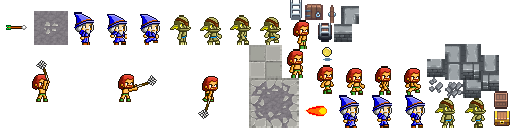
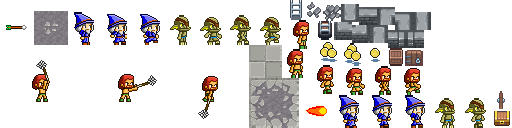
Chests can now drop gold

Changed region(s): [[0.5938, 0.0312, 1.0, 0.875]]

diff --git a/core/src/com/mygdx/game/Room.java b/core/src/com/mygdx/game/Room.java
@@ -89,6 +89,7 @@ public class Room
 	
 	//removal arrays
 	public Array<GoldCoin> coinsToBeRemoved;
+	public Array<Chest> chestsToBeRemoved;
 	public Array<Attack> attacksToBeRemoved;
 	public Array<Enemy> enemiesToBeRemoved;
 	public Array<AttackEnemy> enemyAttacksToBeRemoved;
@@ -120,6 +121,7 @@ public class Room
 		
 		//removal arrays
 		coinsToBeRemoved = new Array<GoldCoin>();
+		chestsToBeRemoved = new Array<Chest>();
 		attacksToBeRemoved = new Array<Attack>();
 		enemiesToBeRemoved = new Array<Enemy>();
 		enemyAttacksToBeRemoved = new Array<AttackEnemy>();
@@ -392,7 +394,7 @@ public class Room
 				//chest object
 				else if(BLOCK_TYPE.CHEST.sameColor(currentPixel))
 				{
-					obj = new Chest(Assets.instance.chest.chest);
+					obj = new Chest(Assets.instance.chest.chest, this, worldController);
 					obj.body.setTransform(pixelX + roomOffsetX, -pixelY + roomOffsetY, 0);
 					chests.add((Chest)obj);
 					
@@ -577,6 +579,15 @@ public class Room
 			coinsToBeRemoved.removeValue(grabbedCoin, false);
 		}
 		
+		for(Chest openedChest: chestsToBeRemoved)
+		{
+			for(Chest chest : chests)
+			{
+				if(chest == openedChest)
+					chests.removeValue(openedChest, false);
+			}
+		}
+		
 		for(Attack attackHit : attacksToBeRemoved)
 		{
 			for(Attack attack : attacks)
@@ -614,6 +625,11 @@ public class Room
 		coinsToBeRemoved.add(grabbedCoin);
 	}
 	
+	public void removeChest(Chest openedChest)
+	{
+		chestsToBeRemoved.add(openedChest);
+	}
+	
 	public void removeAttack(Attack attackHit)
 	{
 		attacksToBeRemoved.add(attackHit);
@@ -646,5 +662,10 @@ public class Room
 	public void removeEnemyAttack(AttackEnemy attackEnemy)
 	{
 		enemyAttacksToBeRemoved.add(attackEnemy);
+	}
+
+	public void addGold(GoldCoin gold) 
+	{
+		coins.add(gold);
 	}
 }

diff --git a/core/src/com/mygdx/game/WorldController.java b/core/src/com/mygdx/game/WorldController.java
@@ -67,6 +67,7 @@ public class WorldController extends InputAdapter implements ContactListener
 		rooms = new Room[Constants.MAXROOMS][Constants.MAXROOMS];
 		bodiesToBeRemoved = new Array<Body>();
 		score = 0;
+		goldModifier = 1;
 		prepRoomFiles();
 		
 		initLevel();
@@ -299,14 +300,14 @@ public class WorldController extends InputAdapter implements ContactListener
 	public void beginContact(Contact contact)
 	{
 		//collisions for gold coin, non-button activated
-		if(contact.getFixtureA().getBody().getUserData() == activeRoom.player && contact.getFixtureB().getBody().getUserData().getClass() == GoldCoin.class && contact.getFixtureB().isSensor())
+		if(contact.getFixtureA().getBody().getUserData() == activeRoom.player && contact.getFixtureB().getBody().getUserData().getClass().isAssignableFrom(GoldCluster.class) && contact.getFixtureB().isSensor()) //TODO needs refactoring
 		{
 			touchedObject = (AbstractGameObject) contact.getFixtureB().getBody().getUserData();
 			touchedObject.activate();
 			touchedObject = null;
 			
 		}
-		else if(contact.getFixtureB().getBody().getUserData() == activeRoom.player && contact.getFixtureA().getBody().getUserData().getClass() == GoldCoin.class && contact.getFixtureB().isSensor())
+		else if(contact.getFixtureB().getBody().getUserData() == activeRoom.player && contact.getFixtureA().getBody().getUserData().getClass().isAssignableFrom(GoldCluster.class) && contact.getFixtureB().isSensor())
 		{
 			touchedObject = (AbstractGameObject) contact.getFixtureB().getBody().getUserData();
 			touchedObject.activate();

diff --git a/core/src/com/mygdx/game/objects/GoldCluster.java b/core/src/com/mygdx/game/objects/GoldCluster.java
@@ -9,14 +9,13 @@ import com.mygdx.game.WorldController;
 import com.mygdx.game.utils.AudioManager;
 import com.mygdx.game.utils.Constants;
 
-public class GoldCluster extends AbstractGameObject
+public class GoldCluster extends GoldCoin
 {
-	private Room room;
-	private WorldController worldController;
-
-	public GoldCluster(TextureRegion img, Room room, WorldController wc)
+	private int numOfCoins;
+	
+	public GoldCluster(TextureRegion img, Room room, WorldController wc, int numOfCoins)
 	{
-		super(img);
+		super(img, room, wc);
 		
 		body.destroyFixture(body.getFixtureList().first());
 		
@@ -35,15 +34,21 @@ public class GoldCluster extends AbstractGameObject
 		
 		this.room = room;
 		this.worldController = wc;
+		this.numOfCoins = numOfCoins;
 	}
 
 	@Override
 	public void activate()
 	{	
-		AudioManager.instance.play(Assets.instance.sounds.coinPickup);
-		worldController.addScore(Constants.BASECOINSCORE + worldController.goldModifier);
-		room.removeCoin(this);
-		worldController.addToRemoval(body);
-		System.out.println("Gold Coin touched, +10 gold. Score: " + worldController.getScore());
+		if(!collected)
+		{
+			AudioManager.instance.play(Assets.instance.sounds.coinPickup);
+			worldController.addScore((Constants.BASECOINSCORE * numOfCoins) * worldController.goldModifier);
+			room.removeCoin(this);
+			worldController.addToRemoval(body);
+			System.out.println("Gold Coin touched, +10 gold. Score: " + worldController.getScore());
+			
+			collected = true;
+		}
 	}
 }

diff --git a/core/src/com/mygdx/game/objects/Chest.java b/core/src/com/mygdx/game/objects/Chest.java
@@ -8,13 +8,17 @@ import com.badlogic.gdx.graphics.g2d.TextureRegion;
 import com.badlogic.gdx.physics.box2d.CircleShape;
 import com.badlogic.gdx.physics.box2d.FixtureDef;
 import com.mygdx.game.Assets;
+import com.mygdx.game.Room;
+import com.mygdx.game.WorldController;
 import com.mygdx.game.utils.AudioManager;
 import com.mygdx.game.utils.Constants;
 
 public class Chest extends AbstractGameObject
 {
-
-	public Chest(TextureRegion img)
+	private Room room;
+	private WorldController worldController;
+	
+	public Chest(TextureRegion img, Room room, WorldController wc)
 	{
 		super(img);
 		
@@ -30,14 +34,27 @@ public class Chest extends AbstractGameObject
 		body.setUserData(this);
 		
 		circle.dispose();
+		
+		this.room = room;
+		this.worldController = wc;
 	}
 	
 	@Override
 	public void activate()
 	{
+		//Play sound clip
 		AudioManager.instance.play(Assets.instance.sounds.openChest);
 		
-		System.out.println("Chest touched");
+		//Spawn loot
+		int randomNumOfCoins = (int) (Math.random() * ((5 - 2) + 1)) + 2;
+		GoldCluster tempCluster = new GoldCluster(Assets.instance.goldCoin.goldCluster, room, worldController, randomNumOfCoins);
+//		GoldCoin tempCluster = new GoldCoin(Assets.instance.goldCoin.goldCluster, room, worldController);
+		tempCluster.body.setTransform(body.getPosition().x, body.getPosition().y, 0);
+		room.addGold(tempCluster);
+		
+		//Remove the chest
+		room.removeChest(this);
+		worldController.addToRemoval(body);
 	}
 
 }

diff --git a/core/src/com/mygdx/game/objects/GoldCoin.java b/core/src/com/mygdx/game/objects/GoldCoin.java
@@ -11,8 +11,9 @@ import com.mygdx.game.utils.Constants;
 
 public class GoldCoin extends AbstractGameObject
 {
-	private Room room;
-	private WorldController worldController;
+	protected Room room;
+	protected WorldController worldController;
+	protected boolean collected;
 
 	public GoldCoin(TextureRegion img, Room room, WorldController wc)
 	{
@@ -35,15 +36,21 @@ public class GoldCoin extends AbstractGameObject
 		
 		this.room = room;
 		this.worldController = wc;
+		collected = false;
 	}
 
 	@Override
 	public void activate()
 	{	
-		AudioManager.instance.play(Assets.instance.sounds.coinPickup);
-		worldController.addScore(Constants.BASECOINSCORE + worldController.goldModifier);
-		room.removeCoin(this);
-		worldController.addToRemoval(body);
-		System.out.println("Gold Coin touched, +10 gold. Score: " + worldController.getScore());
+		if(!collected)
+		{
+			AudioManager.instance.play(Assets.instance.sounds.coinPickup);
+			worldController.addScore(Constants.BASECOINSCORE * worldController.goldModifier);
+			room.removeCoin(this);
+			worldController.addToRemoval(body);
+			System.out.println("Gold Coin touched, +10 gold. Score: " + worldController.getScore());
+			
+			collected = true;
+		}
 	}
 }
